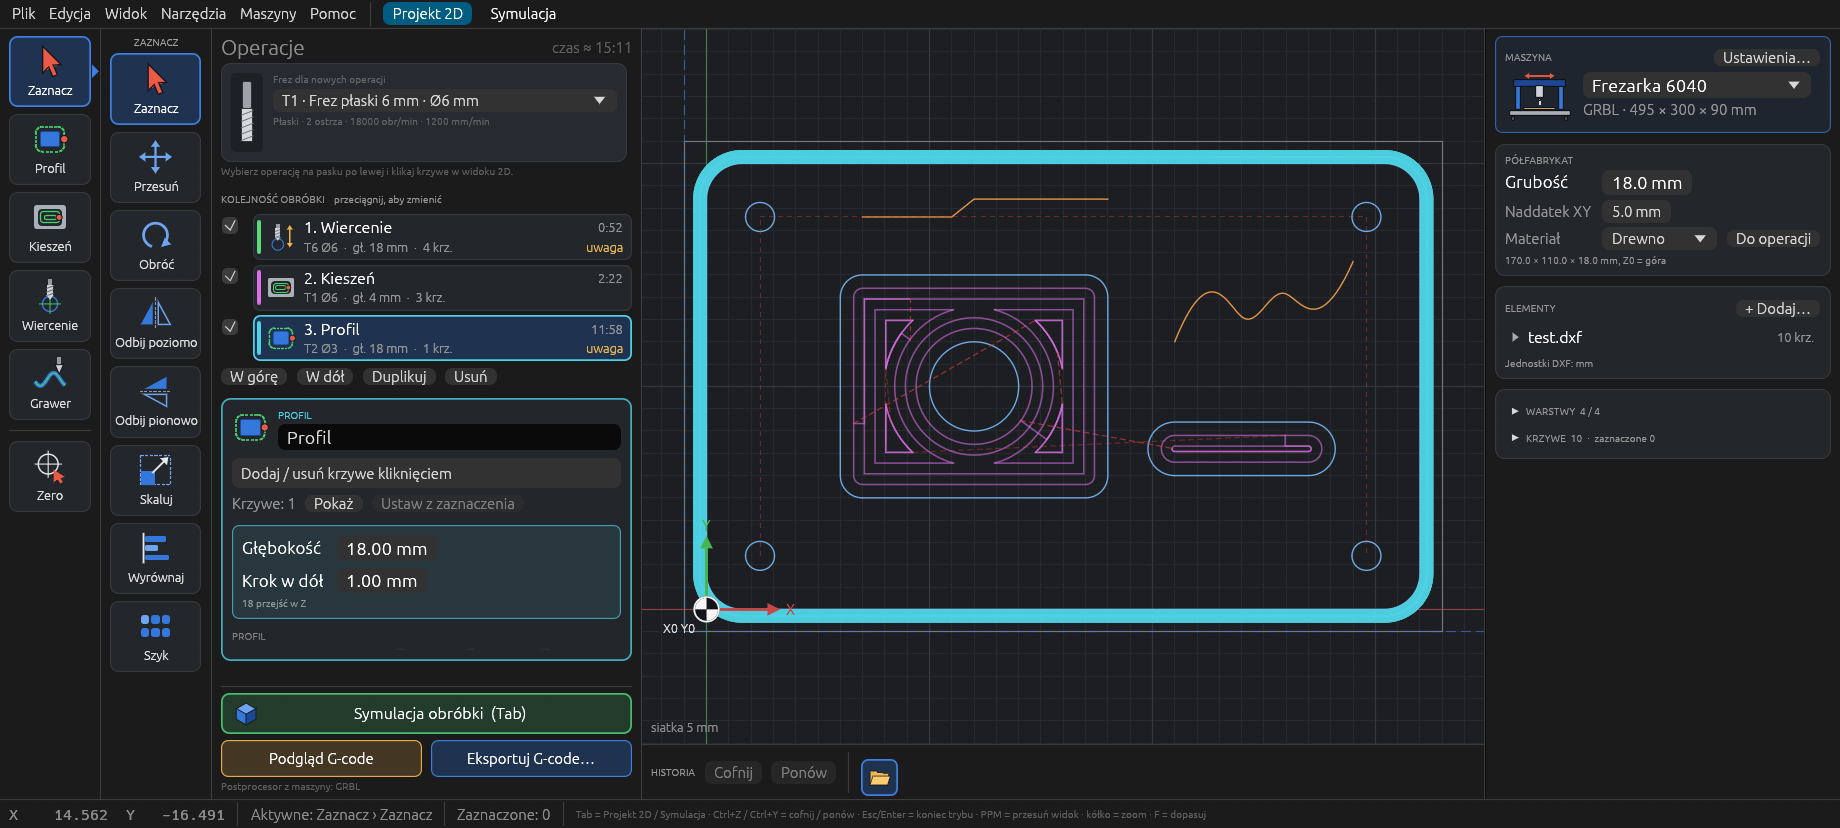
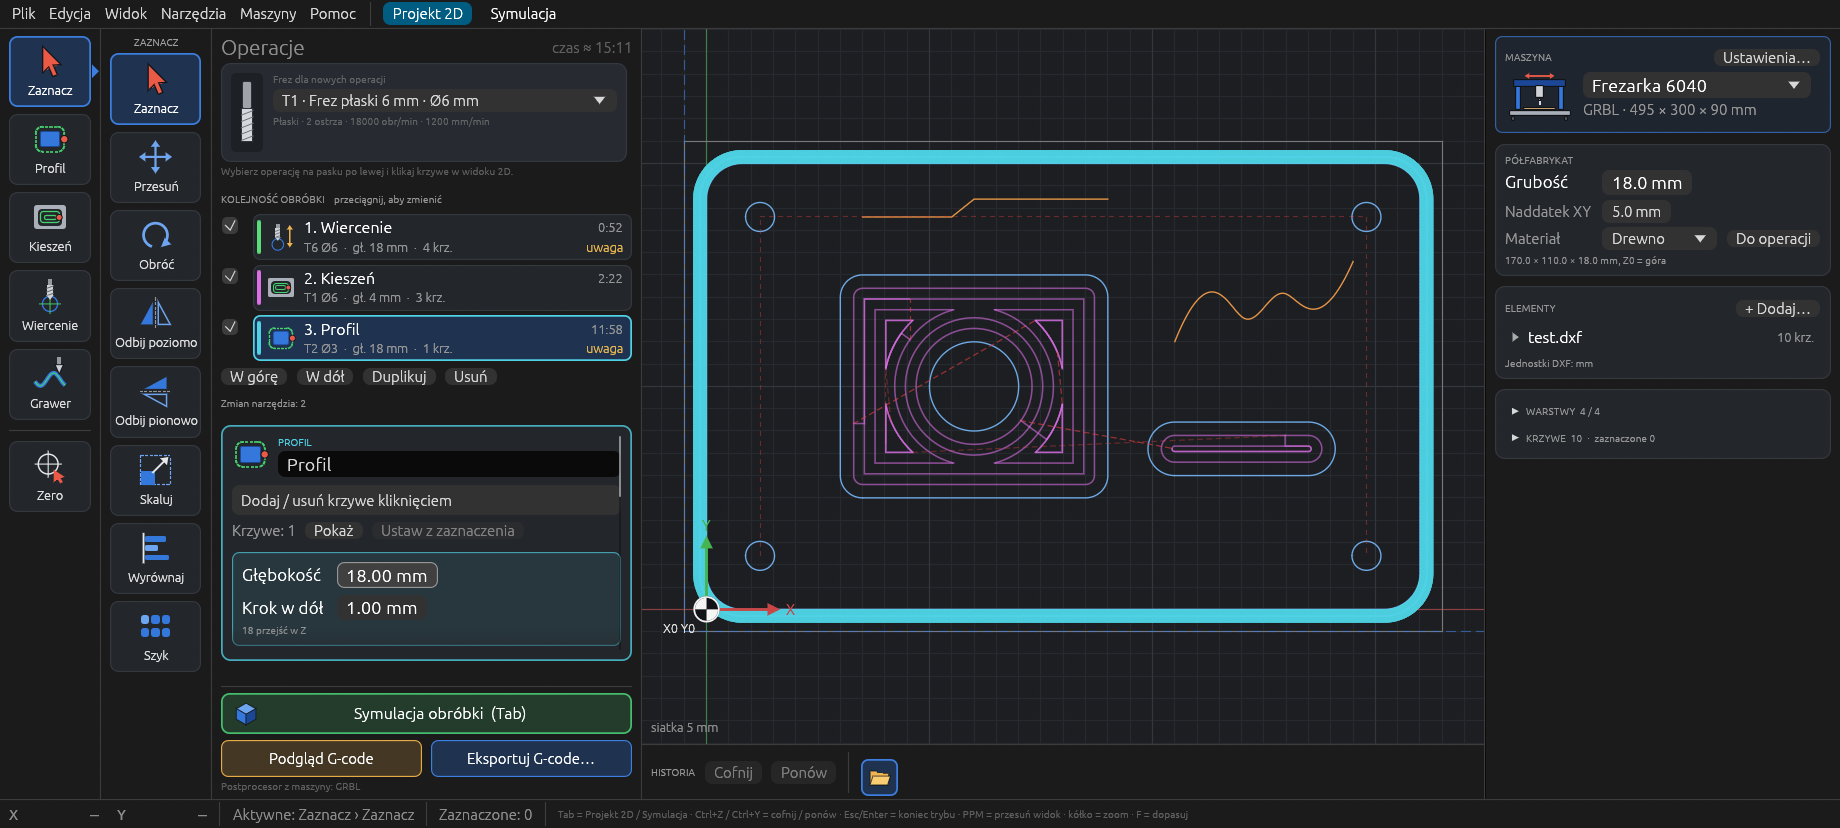
Release 0.4.0

diff --git a/README_pl.md b/README_pl.md
@@ -3,7 +3,7 @@
 **English:** [README.md](README.md) · **Zmiany:** [CHANGELOG.md](CHANGELOG.md) · **Dla programistów:** [DEVELOPMENT.md](DEVELOPMENT.md)
 
 > **Wczesny etap rozwoju — jeszcze nie do użytku.** Millwise jest na bardzo
-> wczesnym etapie (wersja 0.3.0). Zmienia się codziennie, a tworzony G-code
+> wczesnym etapie (wersja 0.4.0). Zmienia się codziennie, a tworzony G-code
 > nie był testowany na prawdziwych maszynach. **Na razie nie zalecamy używania
 > go do sterowania frezarką.** Pierwszą wersję testową dla Linuksa można
 > pobrać (niżej). Uwagi i pomysły chętnie przyjmujemy w zgłoszeniach (Issues).
@@ -15,15 +15,16 @@ razie nie planujemy).
 
 ![Główne okno Millwise](docs/screenshot.png)
 
-## Co potrafi (0.3.0)
+## Co potrafi (0.4.0)
 
 - **Import DXF:** linie, łuki, okręgi, polilinie z łukami, splajny, elipsy i
   bloki; luźne elementy są łączone w kontury, cale przeliczane na milimetry.
 - **Operacje:** wybierasz narzędzie i operację na pasku po lewej, potem
   klikasz krzywe w widoku 2D. Kolejność obróbki zmieniasz, przeciągając
-  operacje na liście.
+  operacje na liście; jednym kliknięciem ustawisz operacje tym samym frezem
+  po sobie, żeby było mniej zmian narzędzia.
   - **Profil** zewnętrzny / wewnętrzny, z mostkami, rampą albo wejściem po
-    łuku, naddatkiem i przejściem wykańczającym.
+    łuku, naddatkiem i przejściem wykańczającym (z własnym posuwem).
   - **Kieszeń** offsetowa albo zygzak, z wyspami i przejściem wykańczającym.
   - **Wiercenie:** pojedyncze, z wycofaniem albo frezowanie otworu po helisie.
   - **Grawer** po linii, z lewej albo z prawej strony linii.
@@ -62,13 +63,13 @@ Na stronie [Releases](https://github.com/cyryllo/millwise/releases) jest
 22.04 lub nowszym i innych dystrybucjach z tego okresu.
 
 ```sh
-chmod +x Millwise-0.3.0-x86_64.AppImage
-./Millwise-0.3.0-x86_64.AppImage
+chmod +x Millwise-0.4.0-x86_64.AppImage
+./Millwise-0.4.0-x86_64.AppImage
 ```
 
-Jeśli okno się nie otwiera (zdarza się na kartach NVIDIA), uruchom program z
-opcją `--gl` — grafika pójdzie przez OpenGL. Nowsze wersje same wybierają
-OpenGL na kartach NVIDIA i wtedy, gdy domyślna grafika nie działa.
+Na kartach NVIDIA i wtedy, gdy domyślna grafika nie otwiera okna, Millwise sam
+wybiera OpenGL. Jeśli okno mimo to się nie otwiera, uruchom program z opcją
+`--gl`.
 
 ## Budowanie ze źródeł
 

diff --git a/README.md b/README.md
@@ -3,7 +3,7 @@
 **Po polsku:** [README_pl.md](README_pl.md) · **Changes:** [CHANGELOG.md](CHANGELOG.md) · **For developers:** [DEVELOPMENT.md](DEVELOPMENT.md)
 
 > **Early development — not ready for use.** Millwise is at a very early stage
-> (version 0.3.0). It changes every day and the G-code it writes has not been
+> (version 0.4.0). It changes every day and the G-code it writes has not been
 > tested on real machines. **Please do not use it to run a CNC machine yet.**
 > A first test version for Linux can be downloaded (see below). Feedback and
 > ideas are welcome in the issues.
@@ -15,16 +15,17 @@ not planned for now). The user interface is in Polish for now.
 
 ![Millwise main window](docs/screenshot.png)
 
-## What it does (0.3.0)
+## What it does (0.4.0)
 
 - **DXF import:** lines, arcs, circles, polylines with arcs, splines,
   ellipses and blocks; loose pieces are joined into contours, inches are
   converted to millimetres.
 - **Operations:** pick a tool and an operation on the left toolbar, then
   click the curves in the 2D view. The machining order is changed by
-  dragging the operations in the list.
+  dragging the operations in the list; one click puts operations with the
+  same tool together, for fewer tool changes.
   - **Profile** outside / inside, with tabs, ramp or arc lead-in, stock to
-    leave and a finishing pass.
+    leave and a finishing pass (with its own feed).
   - **Pocket** offset or zigzag, with islands and a finishing pass.
   - **Drilling:** single, peck, or helical hole milling.
   - **Engraving** on the line, on its left or on its right.
@@ -61,13 +62,13 @@ The [Releases](https://github.com/cyryllo/millwise/releases) page has an
 Ubuntu 22.04 or newer and other distributions of that age.
 
 ```sh
-chmod +x Millwise-0.3.0-x86_64.AppImage
-./Millwise-0.3.0-x86_64.AppImage
+chmod +x Millwise-0.4.0-x86_64.AppImage
+./Millwise-0.4.0-x86_64.AppImage
 ```
 
-If the window does not open (seen with NVIDIA cards), start it with `--gl`
-to draw through OpenGL. Newer versions choose OpenGL by themselves on NVIDIA
-and when the default graphics fail.
+Millwise chooses OpenGL by itself on NVIDIA cards and when the default
+graphics cannot open the window. If the window still does not open, start it
+with `--gl`.
 
 ## Building from source
 

diff --git a/CHANGELOG.md b/CHANGELOG.md
@@ -7,7 +7,7 @@ Version numbers:
   when a new module is added);
 - the **third number** goes up for releases that only fix bugs.
 
-## Unreleased
+## 0.4.0 (2026-11-14)
 
 ### Added
 
